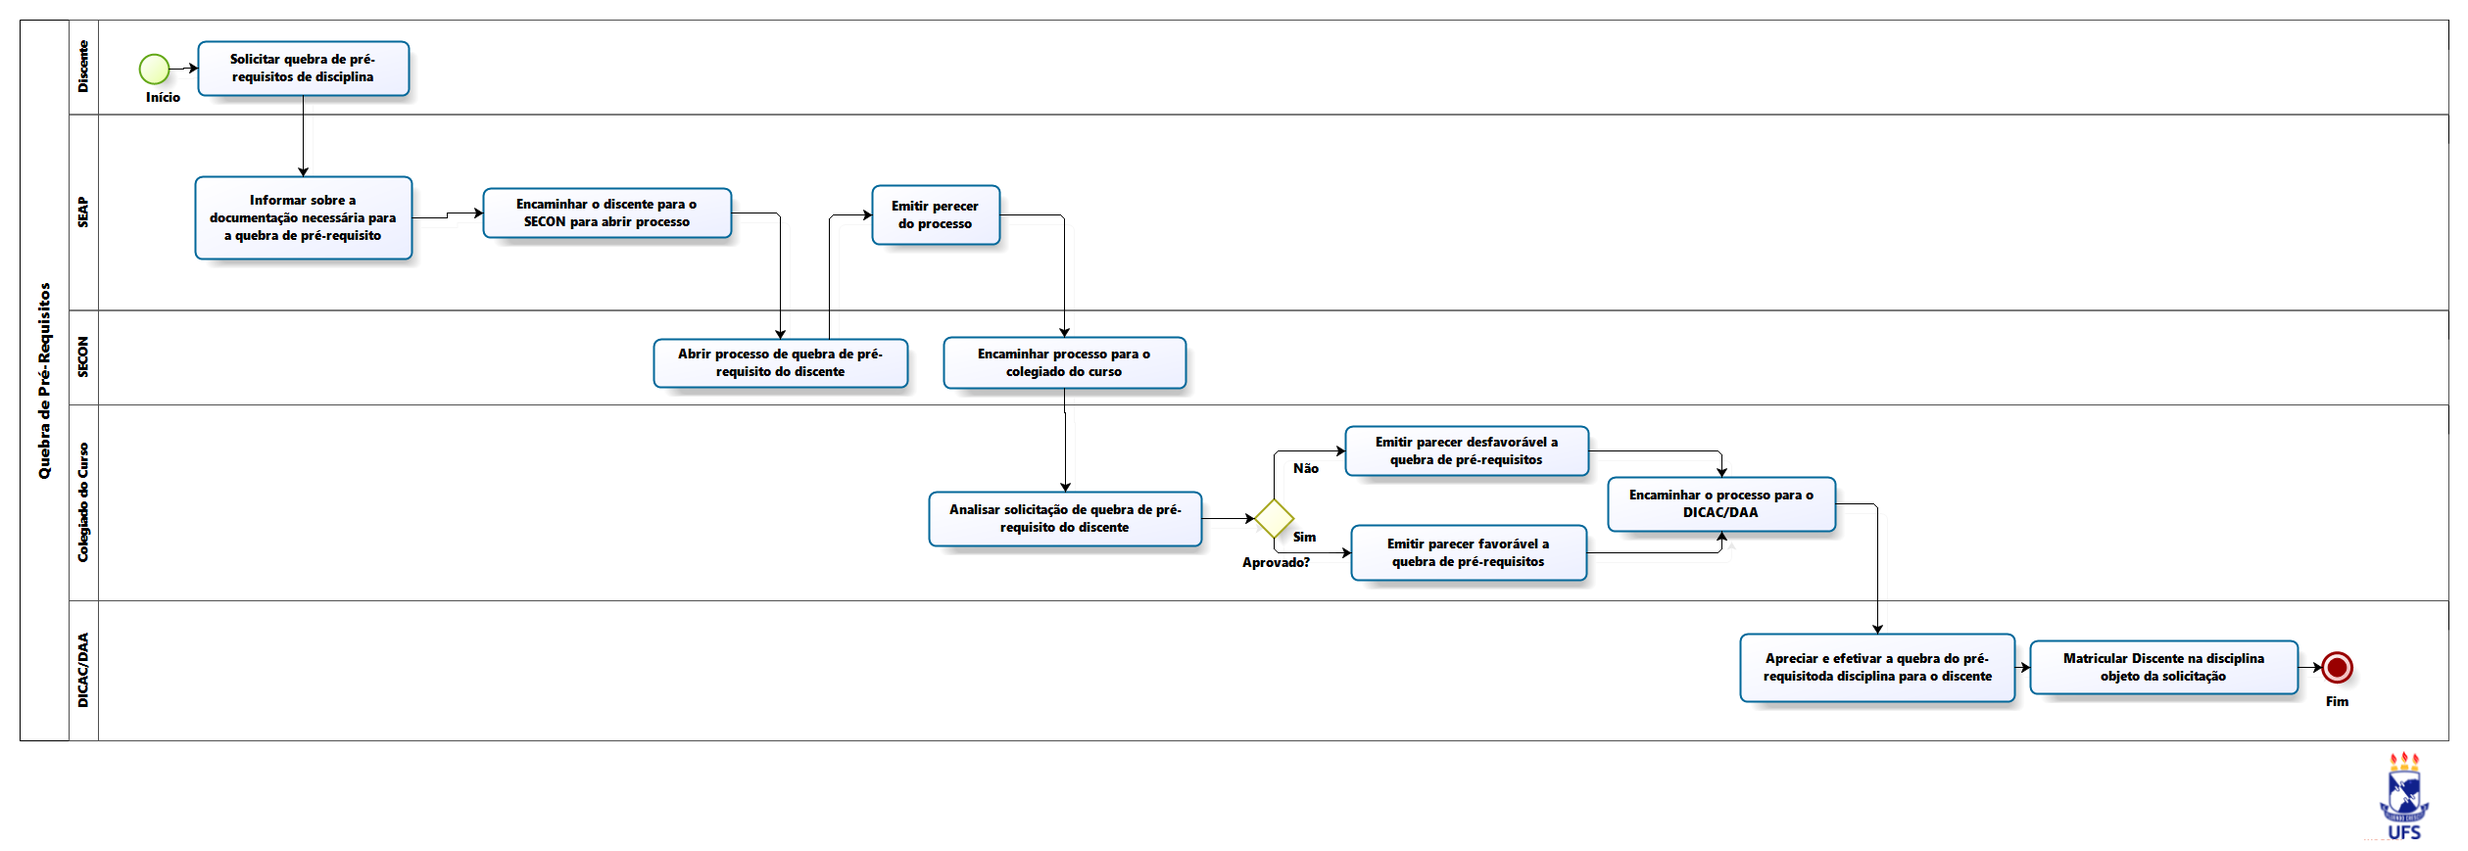
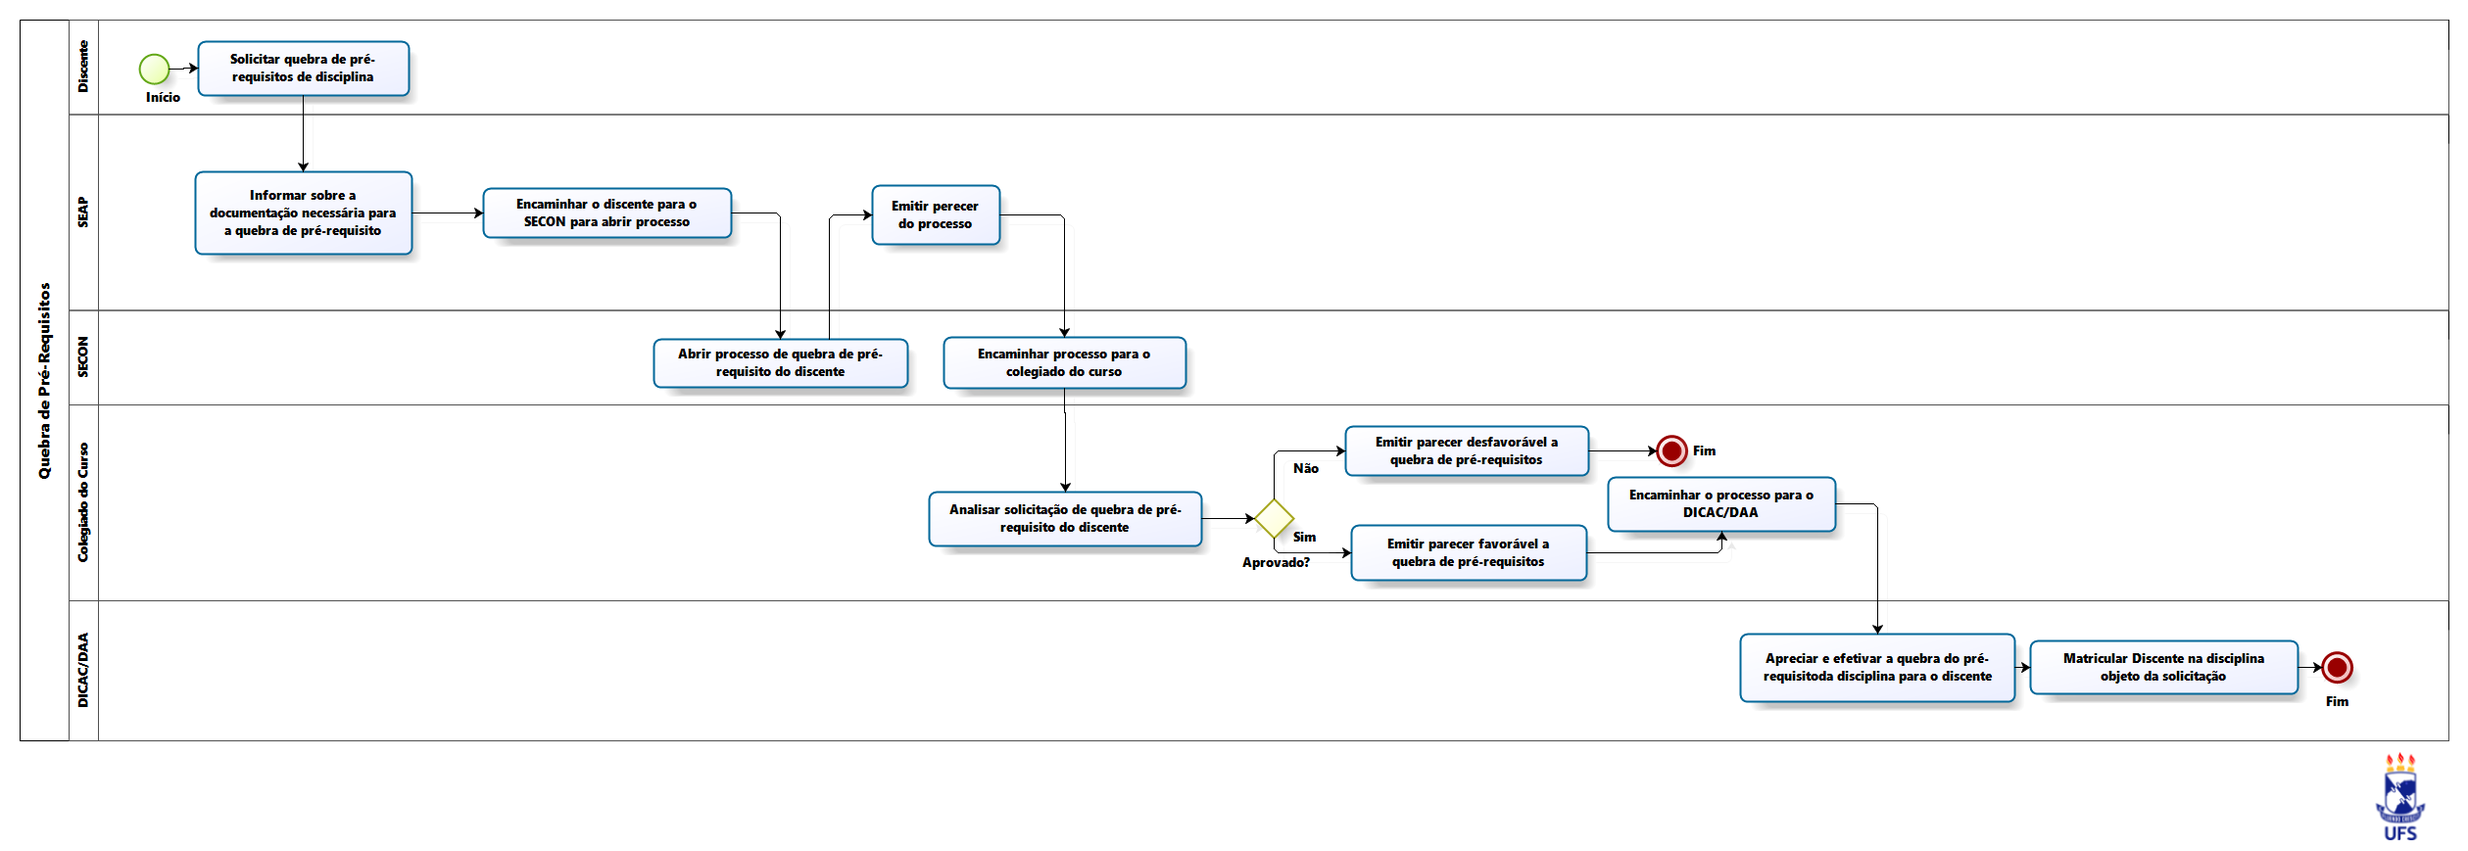
diagrama de Quebra_de_Pre_Requisitos modificado

Changed region(s): [[0.0619, 0.1864, 0.1858, 0.3107], [0.9599, 0.87, 0.9909, 0.9942], [0.6503, 0.4971, 0.7122, 0.5593]]

diff --git a/docs/ChefiaDepartamental/SITE/Quebra de Pré-Requisitos/libs/js/json/configuration.json.js b/docs/ChefiaDepartamental/SITE/Quebra de Pré-Requisitos/libs/js/json/configuration.json.js
@@ -1,1 +1,1 @@
-Bizagi.AppModel = {"personalized":false,"userLogoName":"\\libs\\img\\biz-ex-logo.png","bizagiUrl":"http://www.bizagi.com","productName":"Bizagi Process Modeler","modelName":"Quebra de Pré-Requisitos","publishDate":"29/02/2020 13:48:12","pages":[{"id":"125e832a-3d17-423e-bb57-0111de79cfe2","name":"Quebra de Pré-Requisitos","version":"1.0","author":"Emeson","image":"files\\diagrams\\Quebra_de_Pre_Requisitos.png","isSubprocessPage":false,"elements":[{"id":"d7220e4f-3f43-4527-ae42-fc518daa5a07","name":"Quebra de Pré-Requisitos","elementImage":"files\\bpmnElements\\Participant.png","imageBounds":{"points":[{"x":20.0,"y":20.0}],"radius":0.0,"height":736.0,"width":50.0,"shape":"rect"},"elementType":"Participant","pageElements":[{"id":"e9d7452c-cdda-4aba-b6c0-73e78aa169ef","name":"Início","elementImage":"files\\bpmnElements\\NoneStart.png","imageBounds":{"points":[{"x":142.0,"y":55.0}],"radius":15.0,"height":30.0,"width":30.0,"shape":"circle"},"elementType":"NoneStart"},{"id":"f385f1ff-2a86-4a48-9114-9d9e4ccfe905","name":"Solicitar quebra de pré-requisitos de disciplina","elementImage":"files\\bpmnElements\\AbstractTask.png","imageBounds":{"points":[{"x":202.0,"y":42.0}],"radius":0.0,"height":55.0,"width":215.0,"shape":"rect"},"elementType":"AbstractTask","properties":[]},{"id":"9bdb3234-523b-477e-a547-0ea90fbe3167","name":"Informar sobre a documentação necessária para a quebra de pré-requisito","elementImage":"files\\bpmnElements\\AbstractTask.png","imageBounds":{"points":[{"x":199.0,"y":180.0}],"radius":0.0,"height":84.0,"width":221.0,"shape":"rect"},"elementType":"AbstractTask","properties":[]},{"id":"56686d61-f50e-4095-835a-78365bab5b1e","name":"Abrir processo de quebra de pré-requisito do discente","elementImage":"files\\bpmnElements\\AbstractTask.png","imageBounds":{"points":[{"x":667.0,"y":346.0}],"radius":0.0,"height":49.0,"width":259.0,"shape":"rect"},"elementType":"AbstractTask","properties":[]},{"id":"365335ca-5a15-47e5-91bf-96aa5a4b21b7","name":"Analisar solicitação de quebra de pré-requisito do discente","elementImage":"files\\bpmnElements\\AbstractTask.png","imageBounds":{"points":[{"x":948.0,"y":502.0}],"radius":0.0,"height":55.0,"width":278.0,"shape":"rect"},"elementType":"AbstractTask","properties":[]},{"id":"6d4d2a1b-c15b-4306-80ed-bc67bcef0df6","name":"Aprovado?","elementImage":"files\\bpmnElements\\ExclusiveGateway.png","imageBounds":{"points":[{"x":1280.0,"y":509.0}],"radius":0.0,"height":40.0,"width":40.0,"shape":"poly"},"elementType":"ExclusiveGateway","properties":[],"pageElements":[{"name":"Sim","elementType":"SequenceFlow","properties":[]},{"name":"Não","elementType":"SequenceFlow","properties":[]}]},{"id":"280614c2-3d42-455d-8932-fec41d635230","name":"Apreciar e efetivar a quebra do pré-requisitoda disciplina para o discente","elementImage":"files\\bpmnElements\\AbstractTask.png","imageBounds":{"points":[{"x":1776.0,"y":647.0}],"radius":0.0,"height":69.0,"width":280.0,"shape":"rect"},"elementType":"AbstractTask","properties":[]},{"id":"276d9cdd-8746-443e-ad53-0a6b2d598ba1","name":"Matricular Discente na disciplina objeto da solicitação","elementImage":"files\\bpmnElements\\AbstractTask.png","imageBounds":{"points":[{"x":2072.0,"y":654.0}],"radius":0.0,"height":54.0,"width":273.0,"shape":"rect"},"elementType":"AbstractTask","properties":[]},{"id":"598d0a2b-2b82-4d05-81d0-31834e6ccfb3","name":"Encaminhar processo para o colegiado do curso","elementImage":"files\\bpmnElements\\AbstractTask.png","imageBounds":{"points":[{"x":963.0,"y":344.0}],"radius":0.0,"height":52.0,"width":247.0,"shape":"rect"},"elementType":"AbstractTask","properties":[]},{"id":"db47cf66-5edd-41b5-a32a-728c57e757df","name":"Emitir parecer favorável a quebra de pré-requisitos ","elementImage":"files\\bpmnElements\\AbstractTask.png","imageBounds":{"points":[{"x":1379.0,"y":536.0}],"radius":0.0,"height":56.0,"width":240.0,"shape":"rect"},"elementType":"AbstractTask","properties":[]},{"id":"009773a1-ad5f-4189-a10f-527fe0be1164","name":"Encaminhar o discente para o  SECON para abrir processo","elementImage":"files\\bpmnElements\\AbstractTask.png","imageBounds":{"points":[{"x":493.0,"y":192.0}],"radius":0.0,"height":50.0,"width":253.0,"shape":"rect"},"elementType":"AbstractTask","properties":[]},{"id":"4502bc29-8803-4c04-a25e-760998a49c0a","name":"Emitir parecer desfavorável a quebra de pré-requisitos ","elementImage":"files\\bpmnElements\\AbstractTask.png","imageBounds":{"points":[{"x":1373.0,"y":435.0}],"radius":0.0,"height":50.0,"width":248.0,"shape":"rect"},"elementType":"AbstractTask","properties":[]},{"id":"f7558e54-6d8e-448e-8b9d-121c8e87291a","name":"Encaminhar o processo para o DICAC/DAA","elementImage":"files\\bpmnElements\\AbstractTask.png","imageBounds":{"points":[{"x":1641.0,"y":487.0}],"radius":0.0,"height":55.0,"width":232.0,"shape":"rect"},"elementType":"AbstractTask","properties":[]},{"id":"09b2dbef-2035-45b9-9175-8451fa3ed92d","name":"Fim","elementImage":"files\\bpmnElements\\TerminateEnd.png","imageBounds":{"points":[{"x":2370.0,"y":666.0}],"radius":15.0,"height":30.0,"width":30.0,"shape":"circle"},"elementType":"TerminateEnd","properties":[]},{"id":"9bca9709-8710-4dc4-b4a8-e8ce370e27bc","name":"Emitir perecer do processo ","elementImage":"files\\bpmnElements\\AbstractTask.png","imageBounds":{"points":[{"x":890.0,"y":189.0}],"radius":0.0,"height":60.0,"width":130.0,"shape":"rect"},"elementType":"AbstractTask","properties":[]},{"id":"ef081c37-c4c1-45d0-881b-e2a4f498ee21","name":"Discente","elementImage":"files\\bpmnElements\\Lane.png","imageBounds":{"points":[{"x":70.0,"y":20.0}],"radius":0.0,"height":96.3,"width":30.0,"shape":"rect"},"elementType":"Lane"},{"id":"69fd035d-ef0f-41aa-b6c2-025573f3ac7a","name":"SEAP","elementImage":"files\\bpmnElements\\Lane.png","imageBounds":{"points":[{"x":70.0,"y":116.3}],"radius":0.0,"height":200.0,"width":30.0,"shape":"rect"},"elementType":"Lane"},{"id":"55a896e1-e415-490d-874c-1565ed5a9eb5","name":"SECON","elementImage":"files\\bpmnElements\\Lane.png","imageBounds":{"points":[{"x":70.0,"y":316.3}],"radius":0.0,"height":96.7,"width":30.0,"shape":"rect"},"elementType":"Lane"},{"id":"6e2c61ef-821c-4aea-afcc-36b300a025f5","name":"Colegiado do Curso","elementImage":"files\\bpmnElements\\Lane.png","imageBounds":{"points":[{"x":70.0,"y":413.0}],"radius":0.0,"height":200.0,"width":30.0,"shape":"rect"},"elementType":"Lane"},{"id":"5c18ace9-82aa-4ba0-a0e2-5297b4fba1de","name":"DICAC/DAA","elementImage":"files\\bpmnElements\\Lane.png","imageBounds":{"points":[{"x":70.0,"y":613.0}],"radius":0.0,"height":143.0,"width":30.0,"shape":"rect"},"elementType":"Lane"}]}]}],"texts":{"tableOfContents":"Índice","pageNumber":"Página","pageNumberLabelOf":"de","version":"Versão","author":"Autor","description":"Descrição","mainPool":"Processo principal","mainPoolDescription":"Processo principal Descrição","processDiagrams":"Processar os Diagramas","processElements":"Elementos do processo","elements":"Elementos do processo","defaultElementName":"Elemento","performers":"Executantes","connectors":"Conectores","connector":"Conector","home":"Principal","search":"Pesquisar","goToParentProcess":"<< Ir para Matriz","visitBizagi":"Visite bizagi.com","contains":"Contém {0} subprocessos","showAll":"Show all","fullScreen":"Tela inteira","zoomIn":"Ampliar","zoomOut":"Reduzir","close":"Fechar","menu":"Menu: ","errorPage":"Erro ao visualizar a página","process":"Proceso","subProcess":"Subprocessos publicados","contain":"Contém","checkAttributes":"Ver atributos","checkOverview":"Ver resumo","unavailableResource":"O recurso não está disponível","localResource":"O recurso pode ser acessado localmente","performer":"Executor","linktoimage":"Link para a  imagem","presentationAction":"Ações de apresentação","searchGlobal":"Busca todos","searchLocal":"Busca neste processo","searchResults":"Nenhum resultado encontrado","titlePage":"Start","emptyElement":"Este elemento ainda não foi documentado","unsupported":"Seu navegador não suporta conteúdo exibido por esta página. <br> Recomendamos que você atualizar o seu navegador.","details":"Detalhes","expand":"Expandir","mainPoolProperties":"Propriedades do Processo principal","cannotVisualize":"The page cannot be displayed","resourceNotFound":"The requested resource was not found:"},"searchMap":[{"containerId":"125e832a-3d17-423e-bb57-0111de79cfe2","containerName":"Quebra de Pré-Requisitos","isSubprocess":false,"elements":[{"id":"d7220e4f-3f43-4527-ae42-fc518daa5a07","value":"Quebra de Pré-Requisitos"},{"id":"ef081c37-c4c1-45d0-881b-e2a4f498ee21","value":"Discente"},{"id":"69fd035d-ef0f-41aa-b6c2-025573f3ac7a","value":"SEAP"},{"id":"55a896e1-e415-490d-874c-1565ed5a9eb5","value":"SECON"},{"id":"6e2c61ef-821c-4aea-afcc-36b300a025f5","value":"Colegiado do Curso"},{"id":"5c18ace9-82aa-4ba0-a0e2-5297b4fba1de","value":"DICAC/DAA"},{"id":"e9d7452c-cdda-4aba-b6c0-73e78aa169ef","value":"Início"},{"id":"f385f1ff-2a86-4a48-9114-9d9e4ccfe905","value":"Solicitar quebra de pré-requisitos de disciplina"},{"id":"9bdb3234-523b-477e-a547-0ea90fbe3167","value":"Informar sobre a documentação necessária para a quebra de pré-requisito"},{"id":"56686d61-f50e-4095-835a-78365bab5b1e","value":"Abrir processo de quebra de pré-requisito do discente"},{"id":"365335ca-5a15-47e5-91bf-96aa5a4b21b7","value":"Analisar solicitação de quebra de pré-requisito do discente"},{"id":"6d4d2a1b-c15b-4306-80ed-bc67bcef0df6","value":"Aprovado?"},{"id":"280614c2-3d42-455d-8932-fec41d635230","value":"Apreciar e efetivar a quebra do pré-requisitoda disciplina para o discente"},{"id":"276d9cdd-8746-443e-ad53-0a6b2d598ba1","value":"Matricular Discente na disciplina objeto da solicitação"},{"id":"598d0a2b-2b82-4d05-81d0-31834e6ccfb3","value":"Encaminhar processo para o colegiado do curso"},{"id":"db47cf66-5edd-41b5-a32a-728c57e757df","value":"Emitir parecer favorável a quebra de pré-requisitos "},{"id":"009773a1-ad5f-4189-a10f-527fe0be1164","value":"Encaminhar o discente para o  SECON para abrir processo"},{"id":"4502bc29-8803-4c04-a25e-760998a49c0a","value":"Emitir parecer desfavorável a quebra de pré-requisitos "},{"id":"f7558e54-6d8e-448e-8b9d-121c8e87291a","value":"Encaminhar o processo para o DICAC/DAA"},{"id":"09b2dbef-2035-45b9-9175-8451fa3ed92d","value":"Fim"},{"id":"9bca9709-8710-4dc4-b4a8-e8ce370e27bc","value":"Emitir perecer do processo "}]}]}
+Bizagi.AppModel = {"personalized":false,"userLogoName":"\\libs\\img\\biz-ex-logo.png","bizagiUrl":"http://www.bizagi.com","productName":"Bizagi Process Modeler","modelName":"Quebra de Pré-Requisitos","publishDate":"04/03/2020 21:20:36","pages":[{"id":"125e832a-3d17-423e-bb57-0111de79cfe2","name":"Quebra de Pré-Requisitos","version":"1.0","author":"Emeson","image":"files\\diagrams\\Quebra_de_Pre_Requisitos.png","isSubprocessPage":false,"elements":[{"id":"d7220e4f-3f43-4527-ae42-fc518daa5a07","name":"Quebra de Pré-Requisitos","elementImage":"files\\bpmnElements\\Participant.png","imageBounds":{"points":[{"x":20.0,"y":20.0}],"radius":0.0,"height":736.0,"width":50.0,"shape":"rect"},"elementType":"Participant","pageElements":[{"id":"e9d7452c-cdda-4aba-b6c0-73e78aa169ef","name":"Início","elementImage":"files\\bpmnElements\\NoneStart.png","imageBounds":{"points":[{"x":142.0,"y":55.0}],"radius":15.0,"height":30.0,"width":30.0,"shape":"circle"},"elementType":"NoneStart"},{"id":"f385f1ff-2a86-4a48-9114-9d9e4ccfe905","name":"Solicitar quebra de pré-requisitos de disciplina","elementImage":"files\\bpmnElements\\AbstractTask.png","imageBounds":{"points":[{"x":202.0,"y":42.0}],"radius":0.0,"height":55.0,"width":215.0,"shape":"rect"},"elementType":"AbstractTask","properties":[]},{"id":"9bdb3234-523b-477e-a547-0ea90fbe3167","name":"Informar sobre a documentação necessária para a quebra de pré-requisito","elementImage":"files\\bpmnElements\\AbstractTask.png","imageBounds":{"points":[{"x":199.0,"y":175.0}],"radius":0.0,"height":84.0,"width":221.0,"shape":"rect"},"elementType":"AbstractTask","properties":[]},{"id":"56686d61-f50e-4095-835a-78365bab5b1e","name":"Abrir processo de quebra de pré-requisito do discente","elementImage":"files\\bpmnElements\\AbstractTask.png","imageBounds":{"points":[{"x":667.0,"y":346.0}],"radius":0.0,"height":49.0,"width":259.0,"shape":"rect"},"elementType":"AbstractTask","properties":[]},{"id":"365335ca-5a15-47e5-91bf-96aa5a4b21b7","name":"Analisar solicitação de quebra de pré-requisito do discente","elementImage":"files\\bpmnElements\\AbstractTask.png","imageBounds":{"points":[{"x":948.0,"y":502.0}],"radius":0.0,"height":55.0,"width":278.0,"shape":"rect"},"elementType":"AbstractTask","properties":[]},{"id":"6d4d2a1b-c15b-4306-80ed-bc67bcef0df6","name":"Aprovado?","elementImage":"files\\bpmnElements\\ExclusiveGateway.png","imageBounds":{"points":[{"x":1280.0,"y":509.0}],"radius":0.0,"height":40.0,"width":40.0,"shape":"poly"},"elementType":"ExclusiveGateway","properties":[],"pageElements":[{"name":"Sim","elementType":"SequenceFlow","properties":[]},{"name":"Não","elementType":"SequenceFlow","properties":[]}]},{"id":"280614c2-3d42-455d-8932-fec41d635230","name":"Apreciar e efetivar a quebra do pré-requisitoda disciplina para o discente","elementImage":"files\\bpmnElements\\AbstractTask.png","imageBounds":{"points":[{"x":1776.0,"y":647.0}],"radius":0.0,"height":69.0,"width":280.0,"shape":"rect"},"elementType":"AbstractTask","properties":[]},{"id":"276d9cdd-8746-443e-ad53-0a6b2d598ba1","name":"Matricular Discente na disciplina objeto da solicitação","elementImage":"files\\bpmnElements\\AbstractTask.png","imageBounds":{"points":[{"x":2072.0,"y":654.0}],"radius":0.0,"height":54.0,"width":273.0,"shape":"rect"},"elementType":"AbstractTask","properties":[]},{"id":"598d0a2b-2b82-4d05-81d0-31834e6ccfb3","name":"Encaminhar processo para o colegiado do curso","elementImage":"files\\bpmnElements\\AbstractTask.png","imageBounds":{"points":[{"x":963.0,"y":344.0}],"radius":0.0,"height":52.0,"width":247.0,"shape":"rect"},"elementType":"AbstractTask","properties":[]},{"id":"db47cf66-5edd-41b5-a32a-728c57e757df","name":"Emitir parecer favorável a quebra de pré-requisitos ","elementImage":"files\\bpmnElements\\AbstractTask.png","imageBounds":{"points":[{"x":1379.0,"y":536.0}],"radius":0.0,"height":56.0,"width":240.0,"shape":"rect"},"elementType":"AbstractTask","properties":[]},{"id":"009773a1-ad5f-4189-a10f-527fe0be1164","name":"Encaminhar o discente para o  SECON para abrir processo","elementImage":"files\\bpmnElements\\AbstractTask.png","imageBounds":{"points":[{"x":493.0,"y":192.0}],"radius":0.0,"height":50.0,"width":253.0,"shape":"rect"},"elementType":"AbstractTask","properties":[]},{"id":"4502bc29-8803-4c04-a25e-760998a49c0a","name":"Emitir parecer desfavorável a quebra de pré-requisitos ","elementImage":"files\\bpmnElements\\AbstractTask.png","imageBounds":{"points":[{"x":1373.0,"y":435.0}],"radius":0.0,"height":50.0,"width":248.0,"shape":"rect"},"elementType":"AbstractTask","properties":[]},{"id":"f7558e54-6d8e-448e-8b9d-121c8e87291a","name":"Encaminhar o processo para o DICAC/DAA","elementImage":"files\\bpmnElements\\AbstractTask.png","imageBounds":{"points":[{"x":1641.0,"y":487.0}],"radius":0.0,"height":55.0,"width":232.0,"shape":"rect"},"elementType":"AbstractTask","properties":[]},{"id":"09b2dbef-2035-45b9-9175-8451fa3ed92d","name":"Fim","elementImage":"files\\bpmnElements\\TerminateEnd.png","imageBounds":{"points":[{"x":2370.0,"y":666.0}],"radius":15.0,"height":30.0,"width":30.0,"shape":"circle"},"elementType":"TerminateEnd","properties":[]},{"id":"9bca9709-8710-4dc4-b4a8-e8ce370e27bc","name":"Emitir perecer do processo ","elementImage":"files\\bpmnElements\\AbstractTask.png","imageBounds":{"points":[{"x":890.0,"y":189.0}],"radius":0.0,"height":60.0,"width":130.0,"shape":"rect"},"elementType":"AbstractTask","properties":[]},{"id":"b6f26c92-f58b-4b24-a979-4524ffe43e9a","name":"Fim","elementImage":"files\\bpmnElements\\TerminateEnd.png","imageBounds":{"points":[{"x":1691.0,"y":445.0}],"radius":15.0,"height":30.0,"width":30.0,"shape":"circle"},"elementType":"TerminateEnd","properties":[]},{"id":"ef081c37-c4c1-45d0-881b-e2a4f498ee21","name":"Discente","elementImage":"files\\bpmnElements\\Lane.png","imageBounds":{"points":[{"x":70.0,"y":20.0}],"radius":0.0,"height":96.3,"width":30.0,"shape":"rect"},"elementType":"Lane"},{"id":"69fd035d-ef0f-41aa-b6c2-025573f3ac7a","name":"SEAP","elementImage":"files\\bpmnElements\\Lane.png","imageBounds":{"points":[{"x":70.0,"y":116.3}],"radius":0.0,"height":200.0,"width":30.0,"shape":"rect"},"elementType":"Lane"},{"id":"55a896e1-e415-490d-874c-1565ed5a9eb5","name":"SECON","elementImage":"files\\bpmnElements\\Lane.png","imageBounds":{"points":[{"x":70.0,"y":316.3}],"radius":0.0,"height":96.7,"width":30.0,"shape":"rect"},"elementType":"Lane"},{"id":"6e2c61ef-821c-4aea-afcc-36b300a025f5","name":"Colegiado do Curso","elementImage":"files\\bpmnElements\\Lane.png","imageBounds":{"points":[{"x":70.0,"y":413.0}],"radius":0.0,"height":200.0,"width":30.0,"shape":"rect"},"elementType":"Lane"},{"id":"5c18ace9-82aa-4ba0-a0e2-5297b4fba1de","name":"DICAC/DAA","elementImage":"files\\bpmnElements\\Lane.png","imageBounds":{"points":[{"x":70.0,"y":613.0}],"radius":0.0,"height":143.0,"width":30.0,"shape":"rect"},"elementType":"Lane"}]}]}],"texts":{"tableOfContents":"Índice","pageNumber":"Página","pageNumberLabelOf":"de","version":"Versão","author":"Autor","description":"Descrição","mainPool":"Processo principal","mainPoolDescription":"Processo principal Descrição","processDiagrams":"Processar os Diagramas","processElements":"Elementos do processo","elements":"Elementos do processo","defaultElementName":"Elemento","performers":"Executantes","connectors":"Conectores","connector":"Conector","home":"Principal","search":"Pesquisar","goToParentProcess":"<< Ir para Matriz","visitBizagi":"Visite bizagi.com","contains":"Contém {0} subprocessos","showAll":"Show all","fullScreen":"Tela inteira","zoomIn":"Ampliar","zoomOut":"Reduzir","close":"Fechar","menu":"Menu: ","errorPage":"Erro ao visualizar a página","process":"Proceso","subProcess":"Subprocessos publicados","contain":"Contém","checkAttributes":"Ver atributos","checkOverview":"Ver resumo","unavailableResource":"O recurso não está disponível","localResource":"O recurso pode ser acessado localmente","performer":"Executor","linktoimage":"Link para a  imagem","presentationAction":"Ações de apresentação","searchGlobal":"Busca todos","searchLocal":"Busca neste processo","searchResults":"Nenhum resultado encontrado","titlePage":"Start","emptyElement":"Este elemento ainda não foi documentado","unsupported":"Seu navegador não suporta conteúdo exibido por esta página. <br> Recomendamos que você atualizar o seu navegador.","details":"Detalhes","expand":"Expandir","mainPoolProperties":"Propriedades do Processo principal","cannotVisualize":"The page cannot be displayed","resourceNotFound":"The requested resource was not found:"},"searchMap":[{"containerId":"125e832a-3d17-423e-bb57-0111de79cfe2","containerName":"Quebra de Pré-Requisitos","isSubprocess":false,"elements":[{"id":"d7220e4f-3f43-4527-ae42-fc518daa5a07","value":"Quebra de Pré-Requisitos"},{"id":"ef081c37-c4c1-45d0-881b-e2a4f498ee21","value":"Discente"},{"id":"69fd035d-ef0f-41aa-b6c2-025573f3ac7a","value":"SEAP"},{"id":"55a896e1-e415-490d-874c-1565ed5a9eb5","value":"SECON"},{"id":"6e2c61ef-821c-4aea-afcc-36b300a025f5","value":"Colegiado do Curso"},{"id":"5c18ace9-82aa-4ba0-a0e2-5297b4fba1de","value":"DICAC/DAA"},{"id":"e9d7452c-cdda-4aba-b6c0-73e78aa169ef","value":"Início"},{"id":"f385f1ff-2a86-4a48-9114-9d9e4ccfe905","value":"Solicitar quebra de pré-requisitos de disciplina"},{"id":"9bdb3234-523b-477e-a547-0ea90fbe3167","value":"Informar sobre a documentação necessária para a quebra de pré-requisito"},{"id":"56686d61-f50e-4095-835a-78365bab5b1e","value":"Abrir processo de quebra de pré-requisito do discente"},{"id":"365335ca-5a15-47e5-91bf-96aa5a4b21b7","value":"Analisar solicitação de quebra de pré-requisito do discente"},{"id":"6d4d2a1b-c15b-4306-80ed-bc67bcef0df6","value":"Aprovado?"},{"id":"280614c2-3d42-455d-8932-fec41d635230","value":"Apreciar e efetivar a quebra do pré-requisitoda disciplina para o discente"},{"id":"276d9cdd-8746-443e-ad53-0a6b2d598ba1","value":"Matricular Discente na disciplina objeto da solicitação"},{"id":"598d0a2b-2b82-4d05-81d0-31834e6ccfb3","value":"Encaminhar processo para o colegiado do curso"},{"id":"db47cf66-5edd-41b5-a32a-728c57e757df","value":"Emitir parecer favorável a quebra de pré-requisitos "},{"id":"009773a1-ad5f-4189-a10f-527fe0be1164","value":"Encaminhar o discente para o  SECON para abrir processo"},{"id":"4502bc29-8803-4c04-a25e-760998a49c0a","value":"Emitir parecer desfavorável a quebra de pré-requisitos "},{"id":"f7558e54-6d8e-448e-8b9d-121c8e87291a","value":"Encaminhar o processo para o DICAC/DAA"},{"id":"09b2dbef-2035-45b9-9175-8451fa3ed92d","value":"Fim"},{"id":"9bca9709-8710-4dc4-b4a8-e8ce370e27bc","value":"Emitir perecer do processo "},{"id":"b6f26c92-f58b-4b24-a979-4524ffe43e9a","value":"Fim"}]}]}
